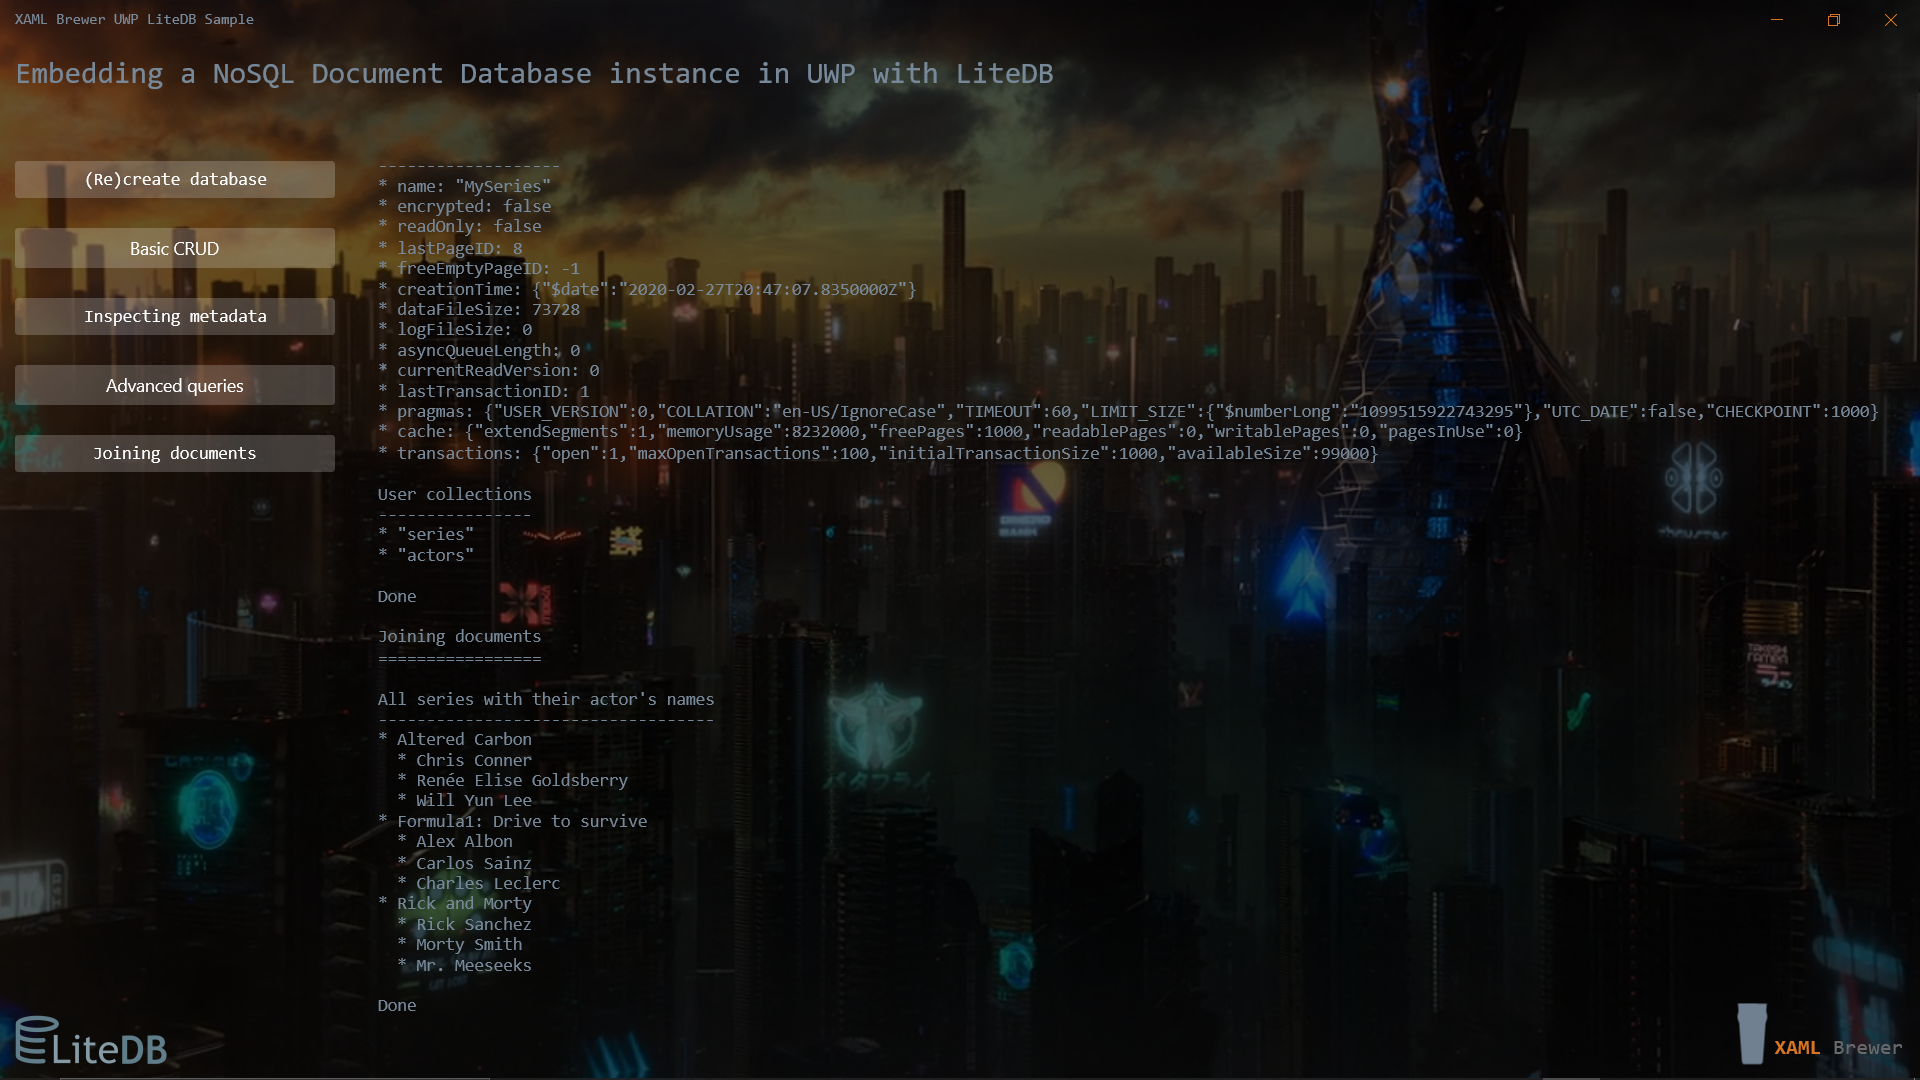
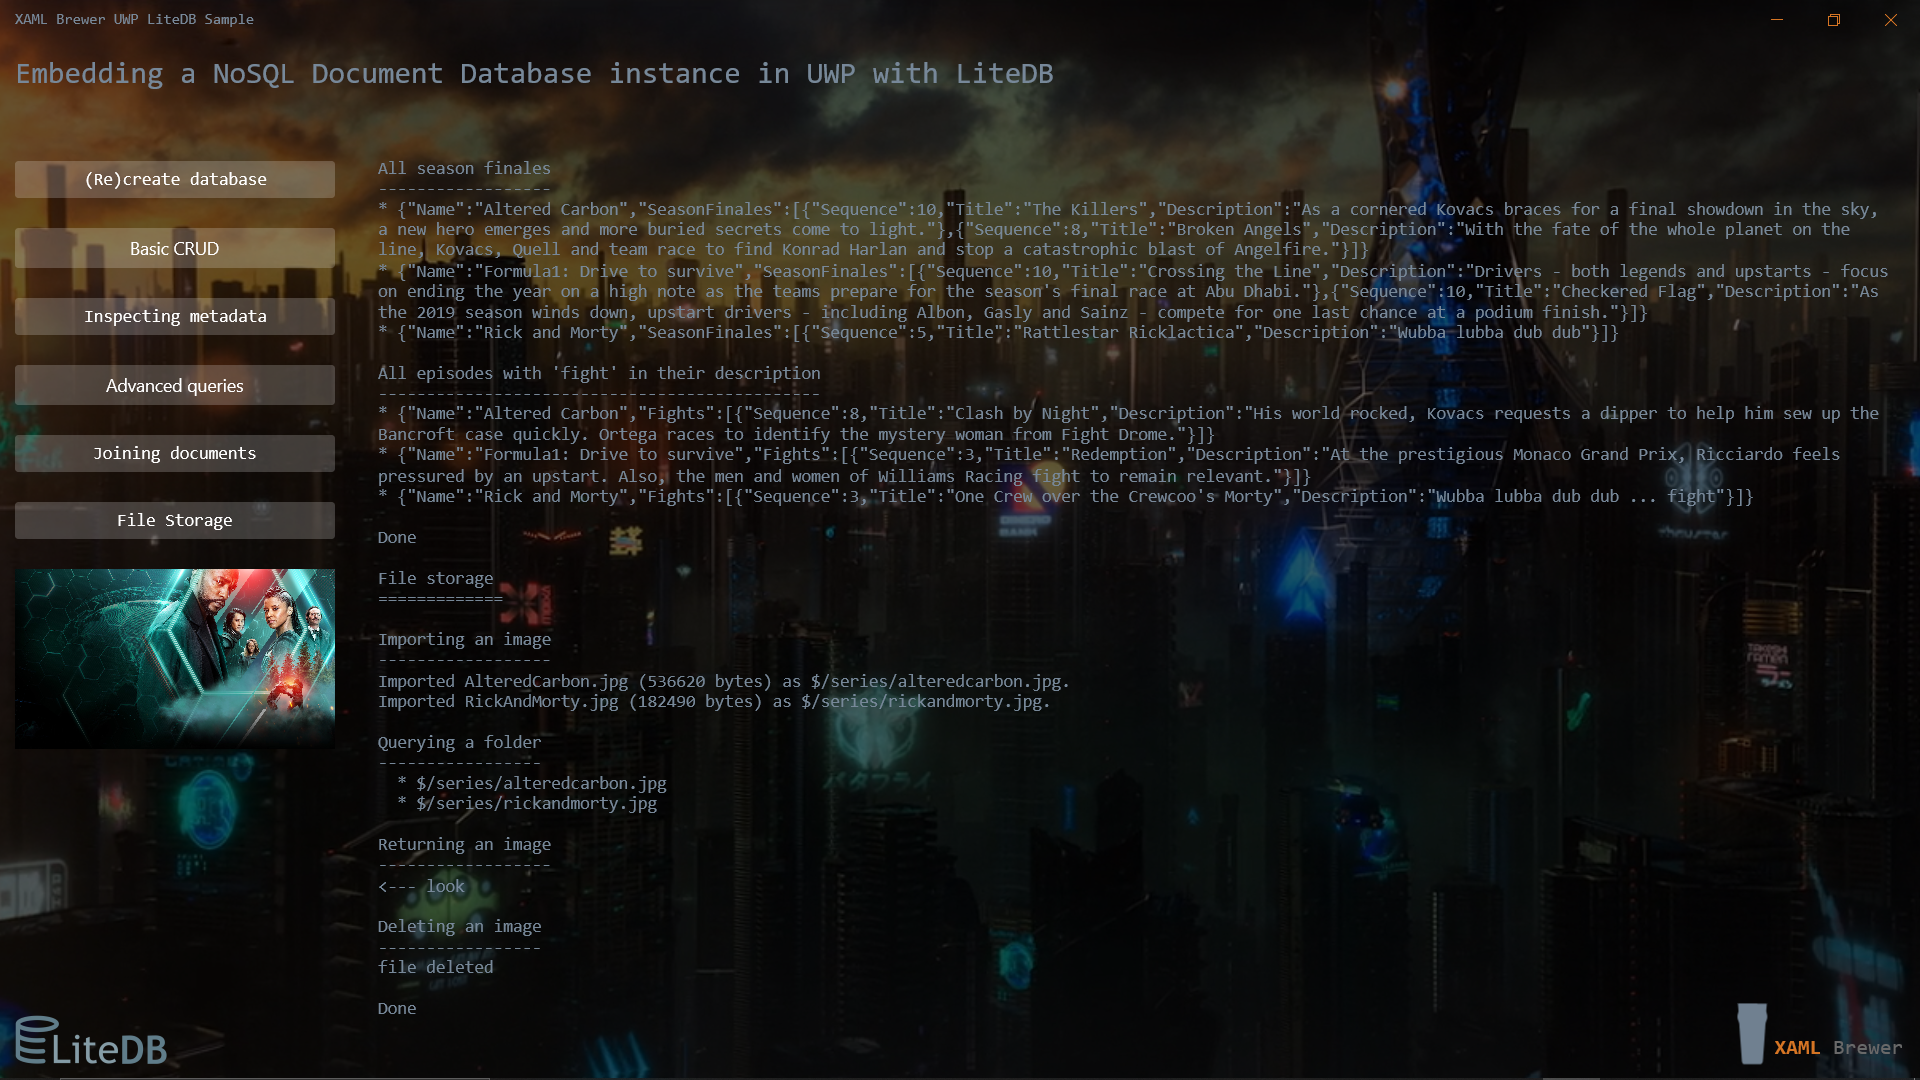
Added FileStorage sample

Changed region(s): [[0.0, 0.1528, 0.9688, 0.9167], [0.1875, 0.9167, 0.2188, 0.9472]]

diff --git a/XamlBrewer.UWP.LiteDBSample/MainPage.xaml b/XamlBrewer.UWP.LiteDBSample/MainPage.xaml
@@ -57,6 +57,13 @@
                     HorizontalAlignment="Stretch"
                     Margin="12"
                     FontFamily="Consolas">Joining documents</Button>
+            <Button Click="FileStorage_Click"
+                    HorizontalAlignment="Stretch"
+                    Margin="12"
+                    FontFamily="Consolas">File Storage</Button>
+            <Image x:Name="SelectedImage"
+                   Margin="12"
+                   VerticalAlignment="Top" />
         </StackPanel>
 
         <!-- Log -->

diff --git a/XamlBrewer.UWP.LiteDBSample/MainPage.xaml.cs b/XamlBrewer.UWP.LiteDBSample/MainPage.xaml.cs
@@ -1,5 +1,7 @@
 using System;
+using System.IO;
 using Windows.ApplicationModel.Core;
+using Windows.Storage;
 using Windows.UI;
 using Windows.UI.ViewManagement;
 using Windows.UI.Xaml;
@@ -192,6 +194,58 @@ namespace XamlBrewer.UWP.LiteDBSample
         {
             Log.Text += message + Environment.NewLine;
             LogScroll.ChangeView(null, LogScroll.ExtentHeight, null);
+        }
+
+        private async void FileStorage_Click(object sender, RoutedEventArgs e)
+        {
+            var fileId = "$/series/alteredcarbon.jpg";
+
+            WriteLog("File storage");
+            WriteLog("=============");
+            WriteLog(" ");
+            WriteLog("Importing an image");
+            WriteLog("------------------");
+            var path = Path.Combine(Windows.ApplicationModel.Package.Current.InstalledLocation.Path, @"./Assets/AlteredCarbon.jpg");
+            var fileInfo = DataLayer.SaveFile(fileId, path);
+            WriteLog(fileInfo);
+            path = Path.Combine(Windows.ApplicationModel.Package.Current.InstalledLocation.Path, @"./Assets/RickAndMorty.jpg");
+            fileInfo = DataLayer.SaveFile(@"$/series/rickandmorty.jpg", path);
+            WriteLog(fileInfo);
+
+            WriteLog(" ");
+            WriteLog("Querying a folder");
+            WriteLog("-----------------");
+            var files = DataLayer.QueryFolder(@"$/series/");
+            foreach (var file in files)
+            {
+                WriteLog($"  * {file}");
+            }
+
+            WriteLog(" ");
+            WriteLog("Returning an image");
+            WriteLog("------------------");
+            var stream = DataLayer.SelectFile(fileId);
+            stream.Seek(0, SeekOrigin.Begin);
+            var bitmapImage = new Windows.UI.Xaml.Media.Imaging.BitmapImage();
+            await bitmapImage.SetSourceAsync(stream.AsRandomAccessStream());
+            SelectedImage.Source = bitmapImage;
+            WriteLog("<--- look");
+
+            WriteLog(" ");
+            WriteLog("Deleting an image");
+            WriteLog("-----------------");
+            if (DataLayer.DeleteFile(fileId))
+            {
+                WriteLog("file deleted");
+            }
+            else
+            {
+                WriteLog("file not deleted");
+            }
+
+            WriteLog(" ");
+            WriteLog("Done");
+            WriteLog(" ");
         }
     }
 }

diff --git a/XamlBrewer.UWP.LiteDBSample/DataLayer.cs b/XamlBrewer.UWP.LiteDBSample/DataLayer.cs
@@ -68,7 +68,7 @@ namespace XamlBrewer.UWP.LiteDBSample
                         new Actor { Name = "Rick Sanchez" },
                         new Actor { Name = "Morty Smith" },
                         new Actor { Name = "Mr. Meeseeks" }
-                    }; 
+                    };
                     rm.Cast = cartoons.ToArray();
                     db.BeginTrans();
                     actorsCollection.Upsert(cartoons); // Actors added.
@@ -197,6 +197,52 @@ namespace XamlBrewer.UWP.LiteDBSample
                     .Include(s => s.Cast)
                     .OrderBy(x => x.Name)
                     .ToList();
+            }
+        }
+
+        public static string SaveFile(string fileId, string filePath)
+        {
+            using (var db = MyDatabase)
+            {
+                var fs = db.FileStorage;
+                var fileInfo = fs.Upload(fileId, filePath);
+                return $"Imported {fileInfo.Filename} ({fileInfo.Length} bytes) as {fileInfo.Id}.";
+            }
+        }
+
+        public static IEnumerable<string> QueryFolder(string folder)
+        {
+            using (var db = MyDatabase)
+            {
+                var fs = db.FileStorage;
+                var infos = fs.Find("_id LIKE @0", folder + "%");  // https://github.com/mbdavid/LiteDB/issues/1469
+                if (infos != null)
+                {
+                    foreach (var info in infos)
+                    {
+                        yield return info.Id;
+                    }
+                }
+            }
+        }
+
+        public static Stream SelectFile(string fileId)
+        {
+            using (var db = MyDatabase)
+            {
+                var stream = new MemoryStream();
+                var fs = db.FileStorage;
+                var fileInfo = fs.Download(fileId, stream);
+                return stream;
+            }
+        }
+
+        public static bool DeleteFile(string fileId)
+        {
+            using (var db = MyDatabase)
+            {
+                var fs = db.FileStorage;
+                return fs.Delete(fileId);
             }
         }
 

diff --git a/README.md b/README.md
@@ -5,6 +5,7 @@ Shows how to embed a LiteDB NoSQL Document Database instance in UWP:
 * Querying metadata.
 * Advanced expression based queries.
 * Joining documents on foreign keys.
+* Using FileStorage for images.
 
 ![Screenshot](Assets/Screenshot.png?raw=true)
 
